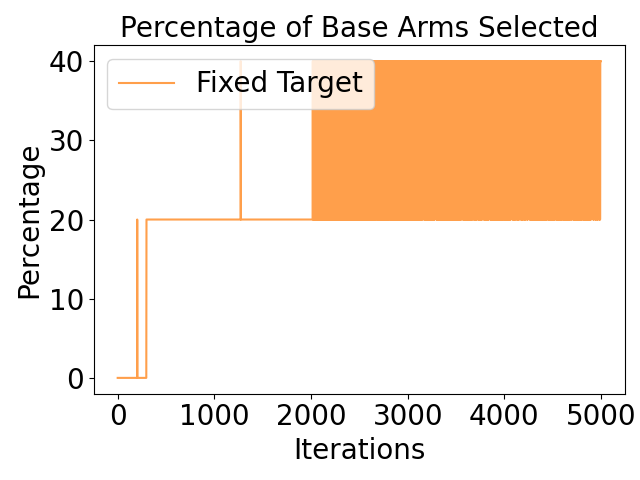
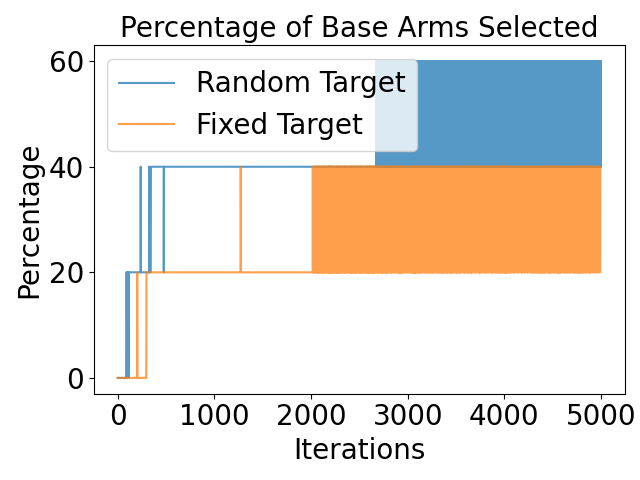
IMM

diff --git a/plot.py b/plot.py
@@ -47,7 +47,7 @@ if args.exp_type == 'BaseArmRate':
     y_label = 'Percentage'
     title = "Percentage of Base Arms Selected"
 
-exp_num = 101
+exp_num = 0
 
 while os.path.exists(os.path.join('./SimulationResults', args.exp_name, args.exp_type + str(exp_num) + '.csv')):
     data = pd.read_csv(os.path.join('./SimulationResults', args.exp_name, args.exp_type + str(exp_num) + '.csv'))
@@ -80,13 +80,13 @@ fig, ax = plt.subplots()
 colors = list(mcolors.TABLEAU_COLORS.keys())
 cols = list(grouped_df_mean.columns)
 
-for c in range(1, len(cols)):
-    plt.plot(range(grouped_df_mean.shape[0]), grouped_df_mean[cols[c]], label=labels[cols[c]], color=colors[c], alpha=0.75)
+for c in range(len(cols)):
+    plt.plot(range(grouped_df_mean.shape[0]), grouped_df_mean[cols[c]], label=labels[cols[c]], color=colors[c])
     # plt.fill_between(grouped_df_std.index, grouped_df_quantile_max[cols[c]], grouped_df_quantile_min[cols[c]], color=colors[c], alpha=0.2)
 
     # plt.fill_between(grouped_df_std.index, (grouped_df_mean[cols[c]] - grouped_df_std[cols[c]]).clip(0, None), grouped_df_mean[cols[c]] + grouped_df_std[cols[c]], color=colors[c], alpha=0.2)
 
-    break
+    
 
 print("plotting")
 plt.xlabel('Iterations')
@@ -100,6 +100,6 @@ t.set_x(-0.05)
 plt.tight_layout()
 
 print("saving")
-plt.savefig(os.path.join('./SimulationResults', args.exp_name, args.exp_type + '.png'))
+plt.savefig(os.path.join('./SimulationResults', args.exp_name, args.exp_type + '.pdf'))
 # plt.show()
 
